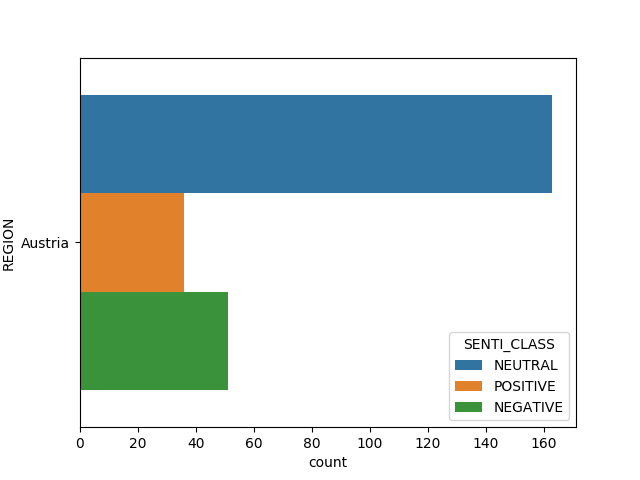
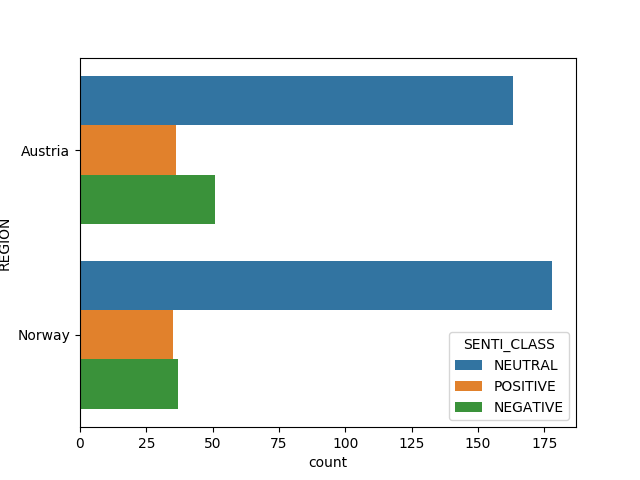
fixed: crash when drawing multiple-region graphs.

diff --git a/analysis/scripts/skripta.py b/analysis/scripts/skripta.py
@@ -102,7 +102,10 @@ sentiScore_byRegion_byKeywords={'REGION':[],'KEYWORDS':[],'SENTI_SCORE':[]}
 for filename in os.listdir(model_dir):
     if filename.endswith(".model"):
         region_name = filename[:filename.index('_word2vec.model')]
-
+        '''
+        if region_name not in ['Austria','Norway']:
+            continue
+        '''
         #List POS tags, that each lemma's origin word in corpus is tagged with
         words2pos = words_to_pos(region_name)
         model_file_path = os.path.join(model_dir, filename)
@@ -185,7 +188,8 @@ for filename in os.listdir(model_dir):
 sentiScore_byRegion_byKeywords=pd.DataFrame(sentiScore_byRegion_byKeywords)
 
 df=similar_words_byRegion_byKeywords.copy(deep=True)
-df['SENTI_CLASS']=df.apply(lambda row: word_info.loc[word_info['WORD']==row['SIMILAR_WORD'],'SENTI_CLASS'],axis=1)
+#df['SENTI_CLASS']=df.apply(lambda row: word_info.loc[word_info['WORD']==row['SIMILAR_WORD'],'SENTI_CLASS'],axis=1)
+df['SENTI_CLASS']=df.apply(lambda row: word_info.loc[word_info['WORD']==row['SIMILAR_WORD'],'SENTI_CLASS'].values[0],axis=1)
 df=df[df['SENTI_CLASS']!='N/A']
 for keywords,group in df.groupby('KEYWORDS'):
     sns.countplot(y="REGION", hue="SENTI_CLASS", data=group)
